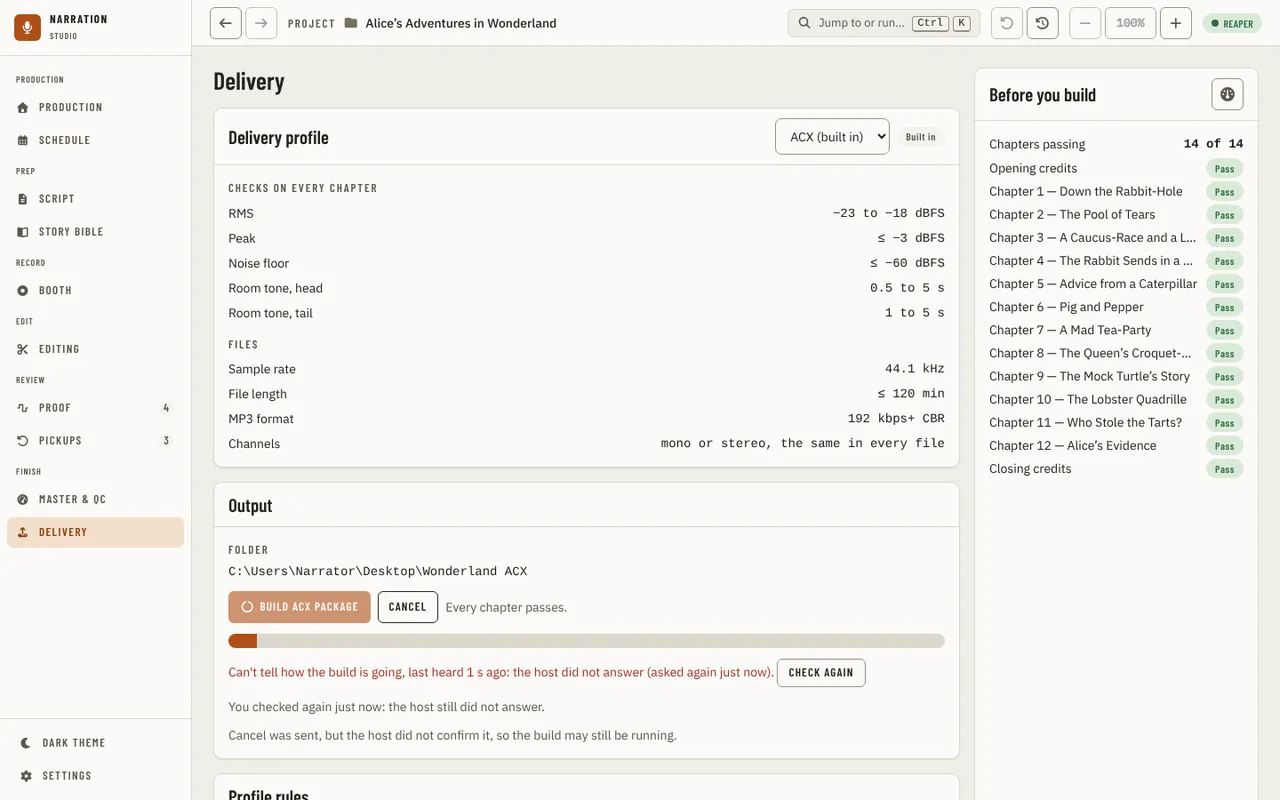
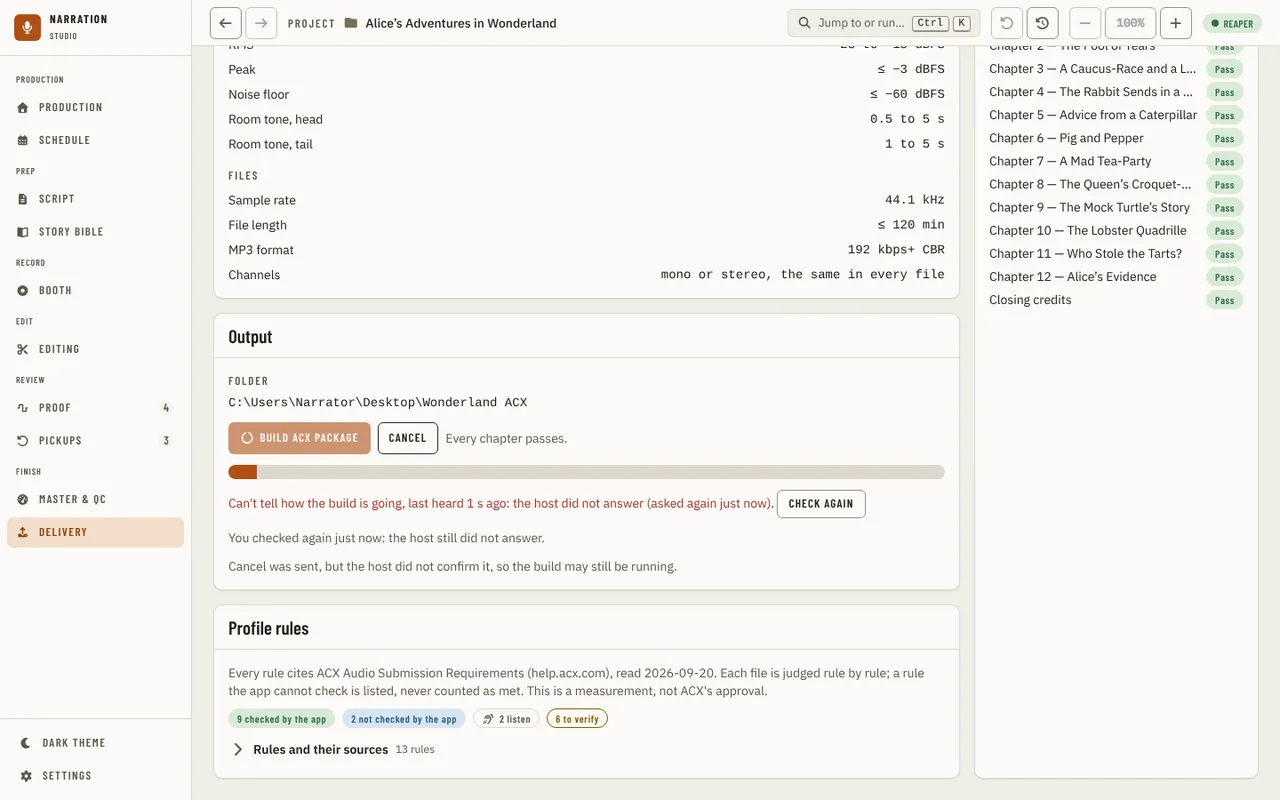
test(ui): scroll the quiet-cancel capture to Output so it differs from host-quiet
At 1024x768 the two new sentences sit under the fold, so host-quiet-cancelled
rendered identically to host-quiet and the whole-run check rejected it. The driver
now scrolls Output to the top, as the built state does, and the guide image is
regenerated.

Claude-Session: https://claude.ai/code/session_01SaTxMZxPywogbcEnYUZSYc

Changed region(s): [[0.1562, 0.2188, 0.75, 1.0], [0.5, 0.0625, 0.9688, 0.5938], [0.1562, 0.0938, 0.25, 0.1875]]

diff --git a/apps/ui/tests/visual/drivers/delivery.ts b/apps/ui/tests/visual/drivers/delivery.ts
@@ -72,6 +72,8 @@ export const deliveryDrivers: Record<string, Driver> = {
     await page.getByText(/^You checked again .*: the host still did not answer\.$/).waitFor();
     await page.getByRole('button', { name: 'Cancel', exact: true }).click();
     await page.getByText('Cancel was sent, but the host did not confirm it, so the build may still be running.').waitFor();
+    // At 1024x768 the two sentences sit under the fold, so the capture would equal host-quiet's: bring Output to the top.
+    await scrollToTop(page, panelTitled(page, 'Output'));
   },
   'no-manuscript': async (page) => {
     await page.goto('/delivery?mockNoManuscript');
